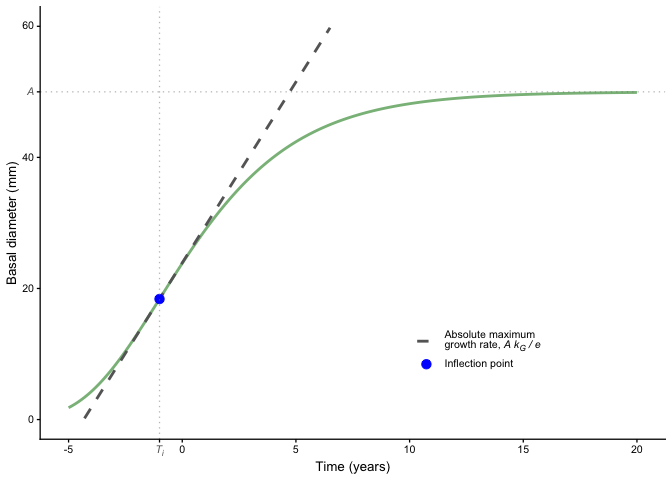
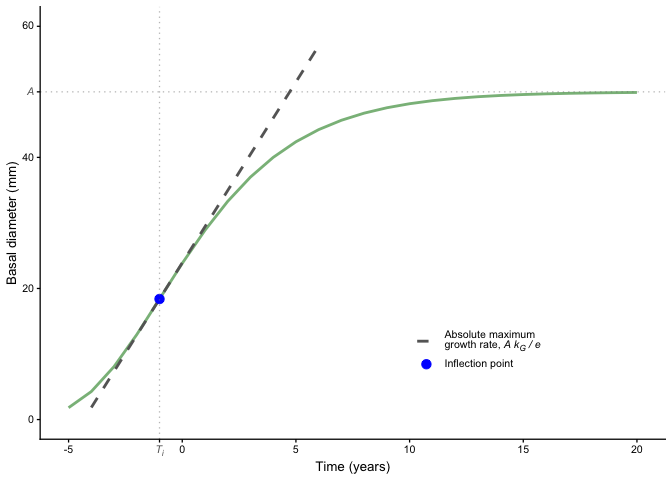
Add 2nd panel

diff --git a/code/notebooks/2025-10-10_draw-gompertz.md b/code/notebooks/2025-10-10_draw-gompertz.md
@@ -1,10 +1,11 @@
 # Draw Gompertz
 eleanorjackson
-2025-10-17
+2025-12-15
 
 ``` r
 library("tidyverse")
 library("ggtext")
+library("patchwork")
 ```
 
 ``` r
@@ -21,26 +22,27 @@ gompertz <- function(t, A, k_G, T_i) {
 
 ``` r
 # Calculate slope and intercept at inflection point
-slope_max <- A * k_G / exp(1)
+max_growth_rate <- A * k_G / exp(1)
 size_at_Ti <- A / exp(1)
-intercept <- size_at_Ti - slope_max * T_i
+intercept <- size_at_Ti - max_growth_rate * T_i
 ```
 
 ``` r
 # Create data frame with curve and tangent line
 df <- tibble(
-  t = seq(-5, 20, by = 0.1)
+  t = seq(-5, 20, by = 1)
 ) %>%
   mutate(
     size = gompertz(t, A, k_G, T_i),
-    tangent = slope_max * t + intercept
+    tangent = max_growth_rate * t + intercept
   )
 
 # Create inflection point data
-inflection_point <- tibble(
-  t = T_i,
-  size = size_at_Ti
-)
+inflection_point <- 
+  tibble(
+    t = T_i, 
+    size = size_at_Ti
+    )
 
 # Plot
 toy_fig <- 
@@ -90,7 +92,6 @@ toy_fig <-
   theme(
     legend.position = "inside",
     legend.position.inside = c(0.7, 0.2),
-    plot.title = element_text(hjust = 0.5),
     axis.text.x = element_markdown(),
     axis.text.y = element_markdown(),
     legend.text = element_markdown()
@@ -116,7 +117,7 @@ toy_fig
 
 ``` r
 jpeg(
-  here::here("output", "figures", "gompertz.jpeg"),
+  here::here("output", "plots", "gompertz.jpeg"),
   width = 80,
   height = 60,
   res = 600,
@@ -133,49 +134,94 @@ dev.off()
 
 ``` r
 # Print parameters
-cat("Parameters:\n")
+cat(
+  "Parameters:\n",
+  "A =", A, "\n",
+  "k_G =", k_G, "\n",
+  "T_i =", T_i, "\n\n",
+  "At inflection point:\n",
+  "Maximum absolute growth rate =", round(max_growth_rate, 3), "\n",
+  "Size at T_i =", round(size_at_Ti, 3), "\n",
+  "Tangent intercept =", round(intercept, 3), "\n"
+  )
 ```
 
     Parameters:
+     A = 50 
+     k_G = 0.3 
+     T_i = -1 
+
+     At inflection point:
+     Maximum absolute growth rate = 5.518 
+     Size at T_i = 18.394 
+     Tangent intercept = 23.912 
 
 ``` r
-cat("A =", A, "\n")
+toy_fig2 <- 
+  df %>% 
+  mutate(lag_size = lag(size, n = 1, order_by = t)) %>%
+  mutate(growth = size - lag_size) %>% 
+  ggplot(aes(x = size, y = growth)) +
+  geom_line(
+    stat = "smooth",
+    colour = "forestgreen",
+    .width = 0,
+    linewidth = 1,
+    alpha = 0.6
+  ) +
+  geom_hline(
+    yintercept = max_growth_rate,
+    linetype = "dashed",
+    color = "gray40",
+    linewidth = 1
+  ) +
+  labs(x = "Basal diameter (mm)", y = "Growth (mm year<sup>-1</sup>)", color = NULL) +
+  theme_classic(base_size = 10) +
+  theme(
+    axis.text.x = element_markdown(),
+    axis.text.y = element_markdown(),
+    axis.title.y = element_markdown()
+  ) +
+  scale_y_continuous(
+    breaks = c(0, 2, 4, max_growth_rate),
+    labels = c(0, 2, 4, 
+                "<span style = 'color:gray40;'>_A k<sub>G</sub> / e_</span>"),
+  ) +
+  scale_x_continuous(
+    breaks = c(0, 20, 40, A, 60),
+    labels = c(0, 20, 40, 
+               "<span style = 'color:gray40;'>_A_</span>", 
+               60),
+    limits = c(0, 60)
+  ) 
+
+toy_fig2
 ```
 
-    A = 50 
+![](figures/2025-10-10_draw-gompertz/unnamed-chunk-8-1.png)
 
 ``` r
-cat("k_G =", k_G, "\n")
+toy_fig + toy_fig2 +
+  plot_annotation(tag_levels = "a")
 ```
 
-    k_G = 0.3 
+![](figures/2025-10-10_draw-gompertz/unnamed-chunk-9-1.png)
 
 ``` r
-cat("T_i =", T_i, "\n\n")
+jpeg(
+  here::here("output", "figures", "figure_02.jpeg"),
+  width = 80,
+  height = 120,
+  res = 600,
+  pointsize = 6,
+  units = "mm",
+  type = "cairo"
+)
+toy_fig / 
+  toy_fig2 +
+  plot_annotation(tag_levels = "a")
+dev.off()
 ```
 
-    T_i = -1 
-
-``` r
-cat("At inflection point:\n")
-```
-
-    At inflection point:
-
-``` r
-cat("Maximum slope =", round(slope_max, 3), "\n")
-```
-
-    Maximum slope = 5.518 
-
-``` r
-cat("Size at T_i =", round(size_at_Ti, 3), "\n")
-```
-
-    Size at T_i = 18.394 
-
-``` r
-cat("Tangent intercept =", round(intercept, 3), "\n")
-```
-
-    Tangent intercept = 23.912 
+    quartz_off_screen 
+                    2 
